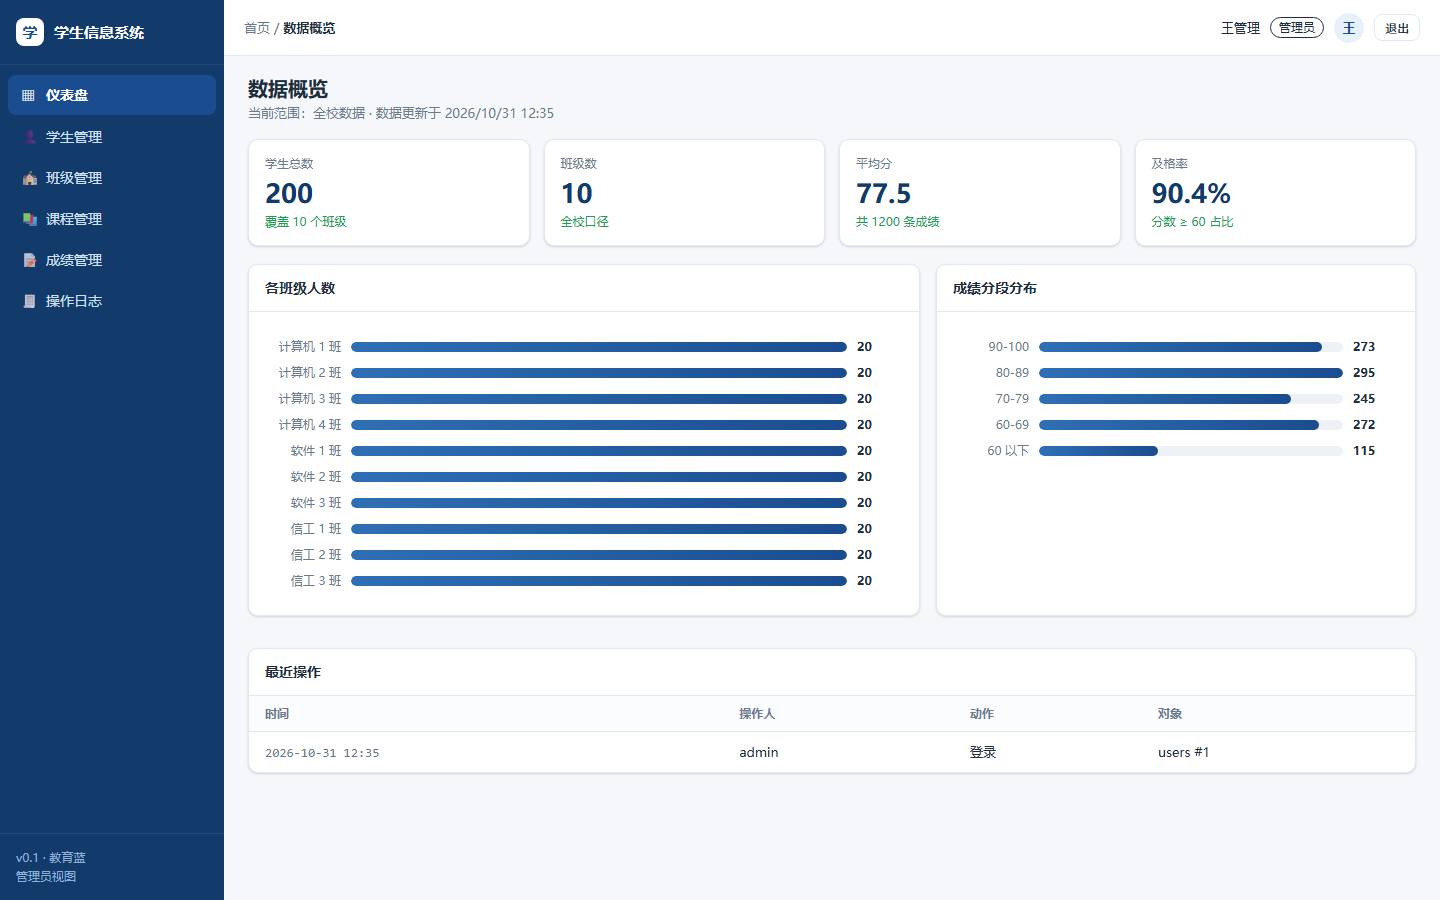
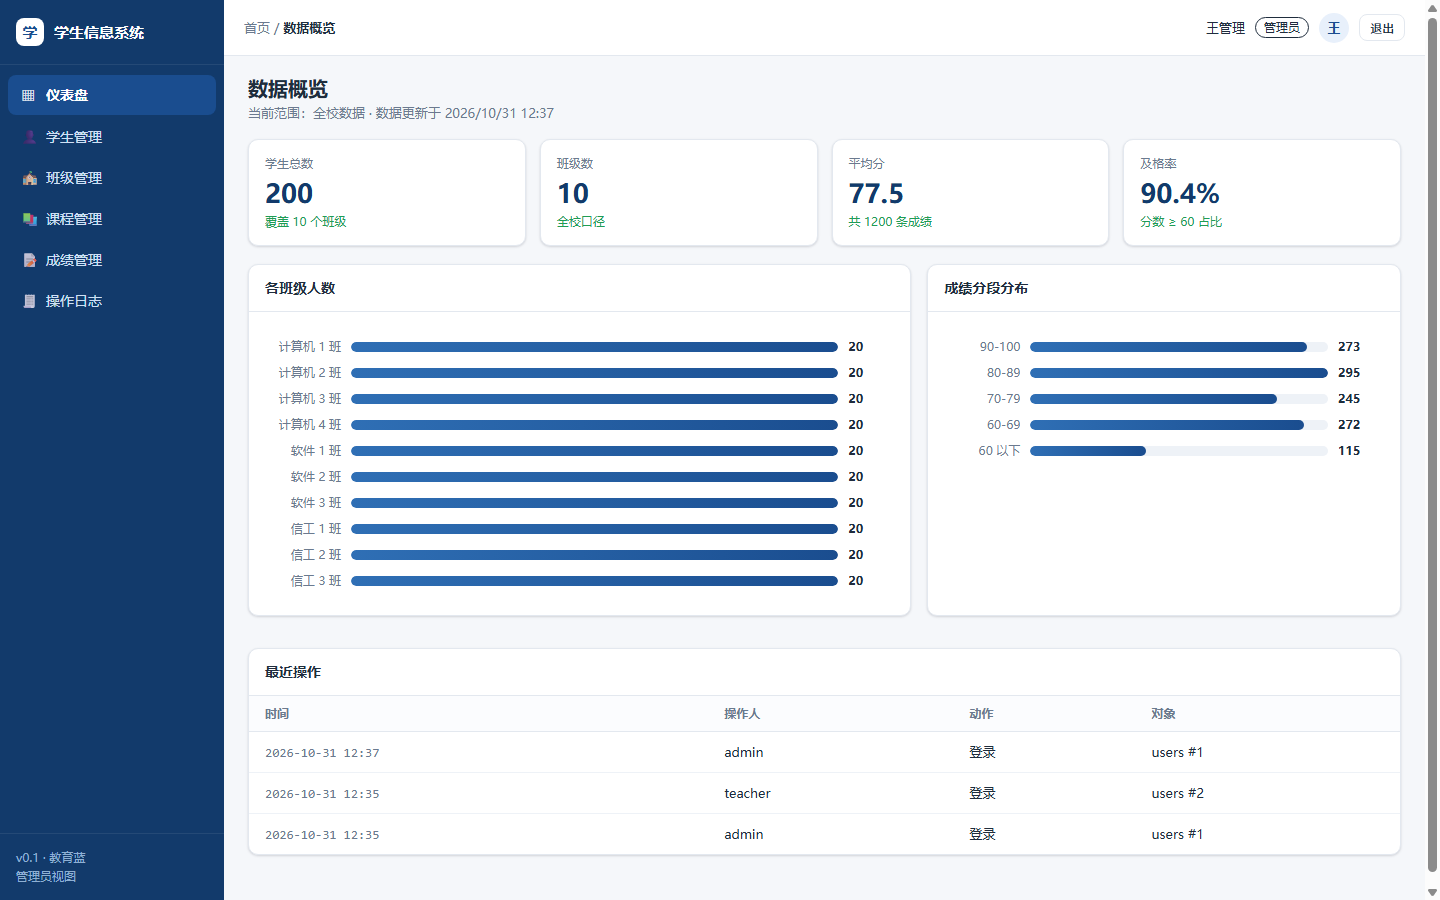
chore: 增加 Windows 双击启动/重置数据脚本
- 启动系统.bat：检查 Node → 首次装依赖 → 启动服务（纯 ASCII 内容，避免 cmd 编码问题）
- 重置演示数据.bat：服务运行中拒绝执行，二次确认后删库重灌
- README 补充双击启动说明

diff --git a/README.md b/README.md
@@ -13,6 +13,8 @@ npm install      # 只装 3 个纯 JS 依赖，无需编译原生模块
 npm start        # 首次启动会自动建表并灌入演示数据
 ```
 
+Windows 用户也可以直接双击项目根目录的 **`启动系统.bat`**：它会检查 Node.js、首次自动装依赖、启动服务并打印访问地址。要清空重来时双击 **`重置演示数据.bat`**（会二次确认，且检测到服务还在运行时拒绝执行）。
+
 浏览器打开 <http://localhost:3000>，用下面的账号登录：
 
 | 账号 | 密码 | 角色 | 能看到什么 |
